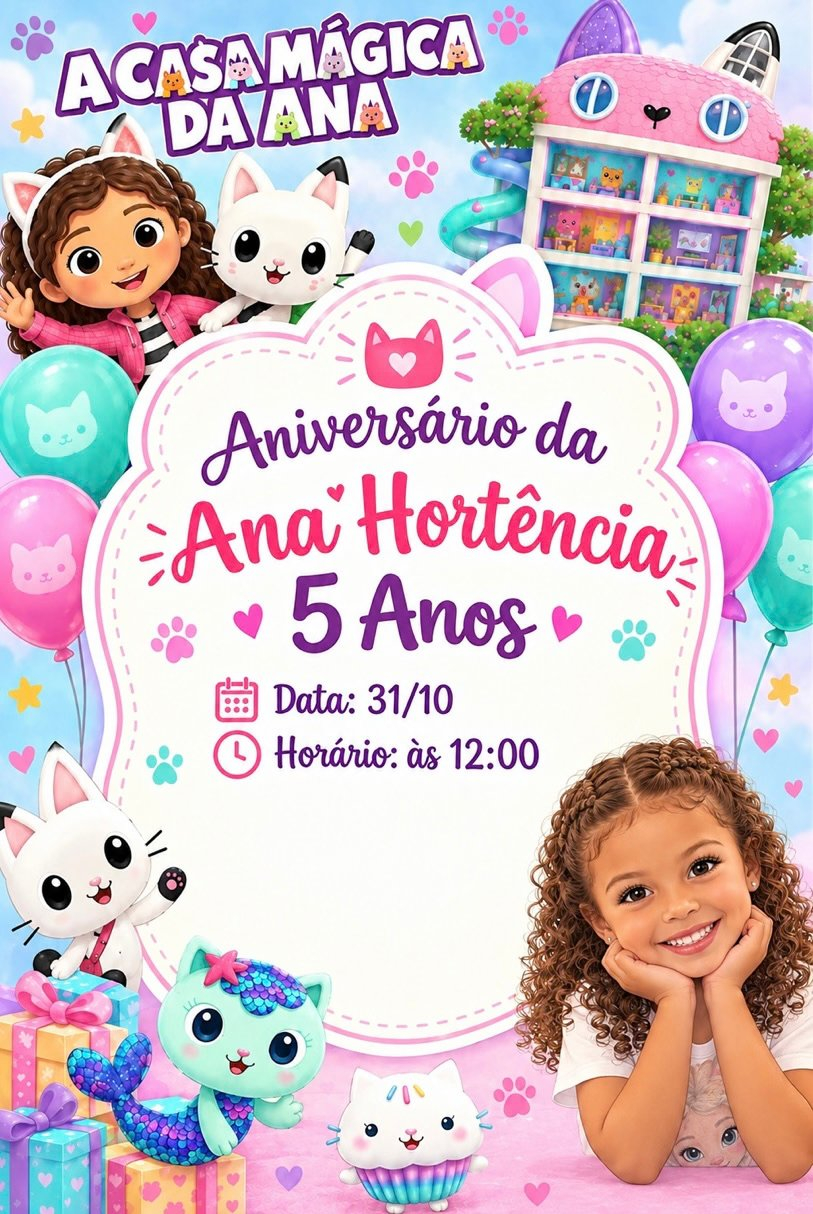
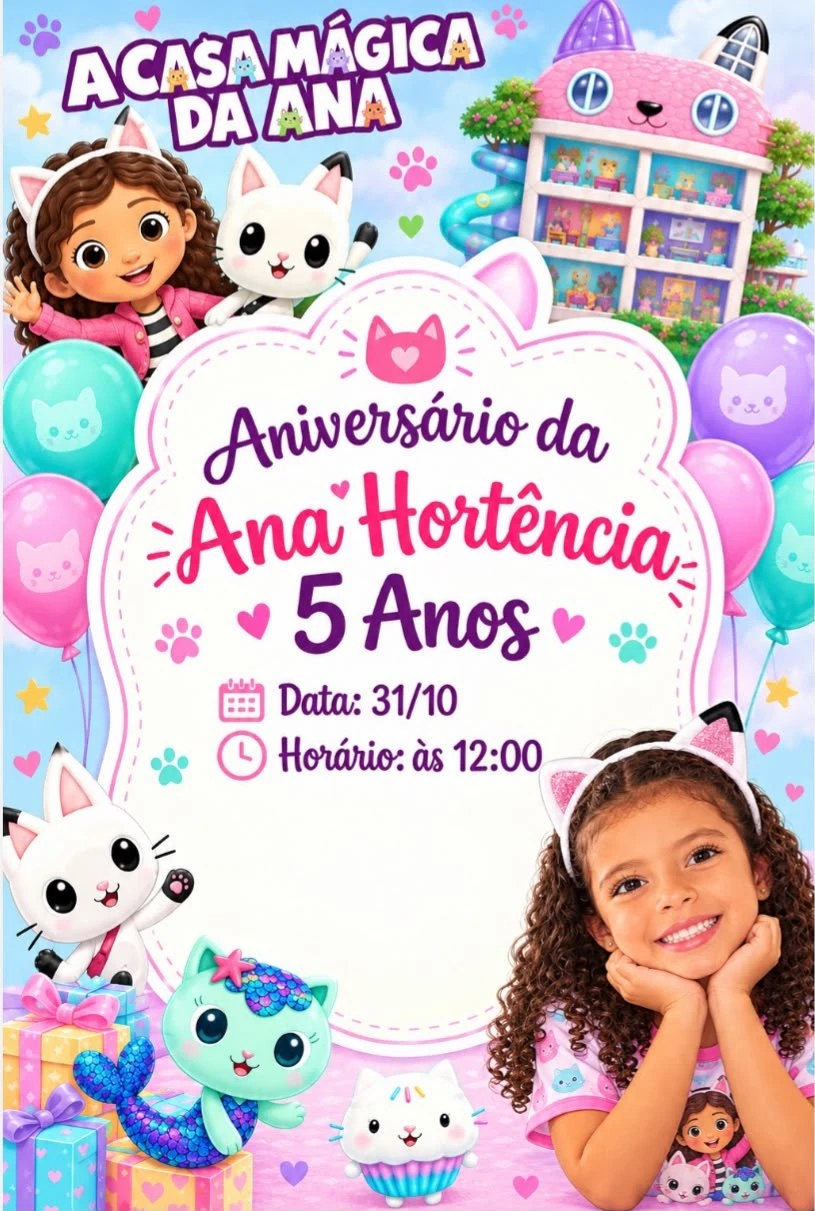
Atualiza foto do convite

diff --git a/index.html b/index.html
@@ -24,7 +24,7 @@
     <!-- Convite -->
     <section class="hero">
       <div class="poster">
-        <img src="assets/convite.jpg" width="813" height="1214"
+        <img src="assets/convite.jpg" width="815" height="1211"
              alt="Convite: A Casa Mágica da Ana – Aniversário da Ana Hortência, 5 anos. Data: 31/10, horário: às 12:00.">
         <a class="hotspot hs-local" href="https://share.google/wN4BCI0VTGkkzVwts" target="_blank" rel="noopener" aria-label="Ver localização"><img src="assets/icon-local.png" alt=""></a>
         <a class="hotspot hs-info" href="#recado" aria-label="Informações importantes"><img src="assets/icon-info.png" alt=""></a>
